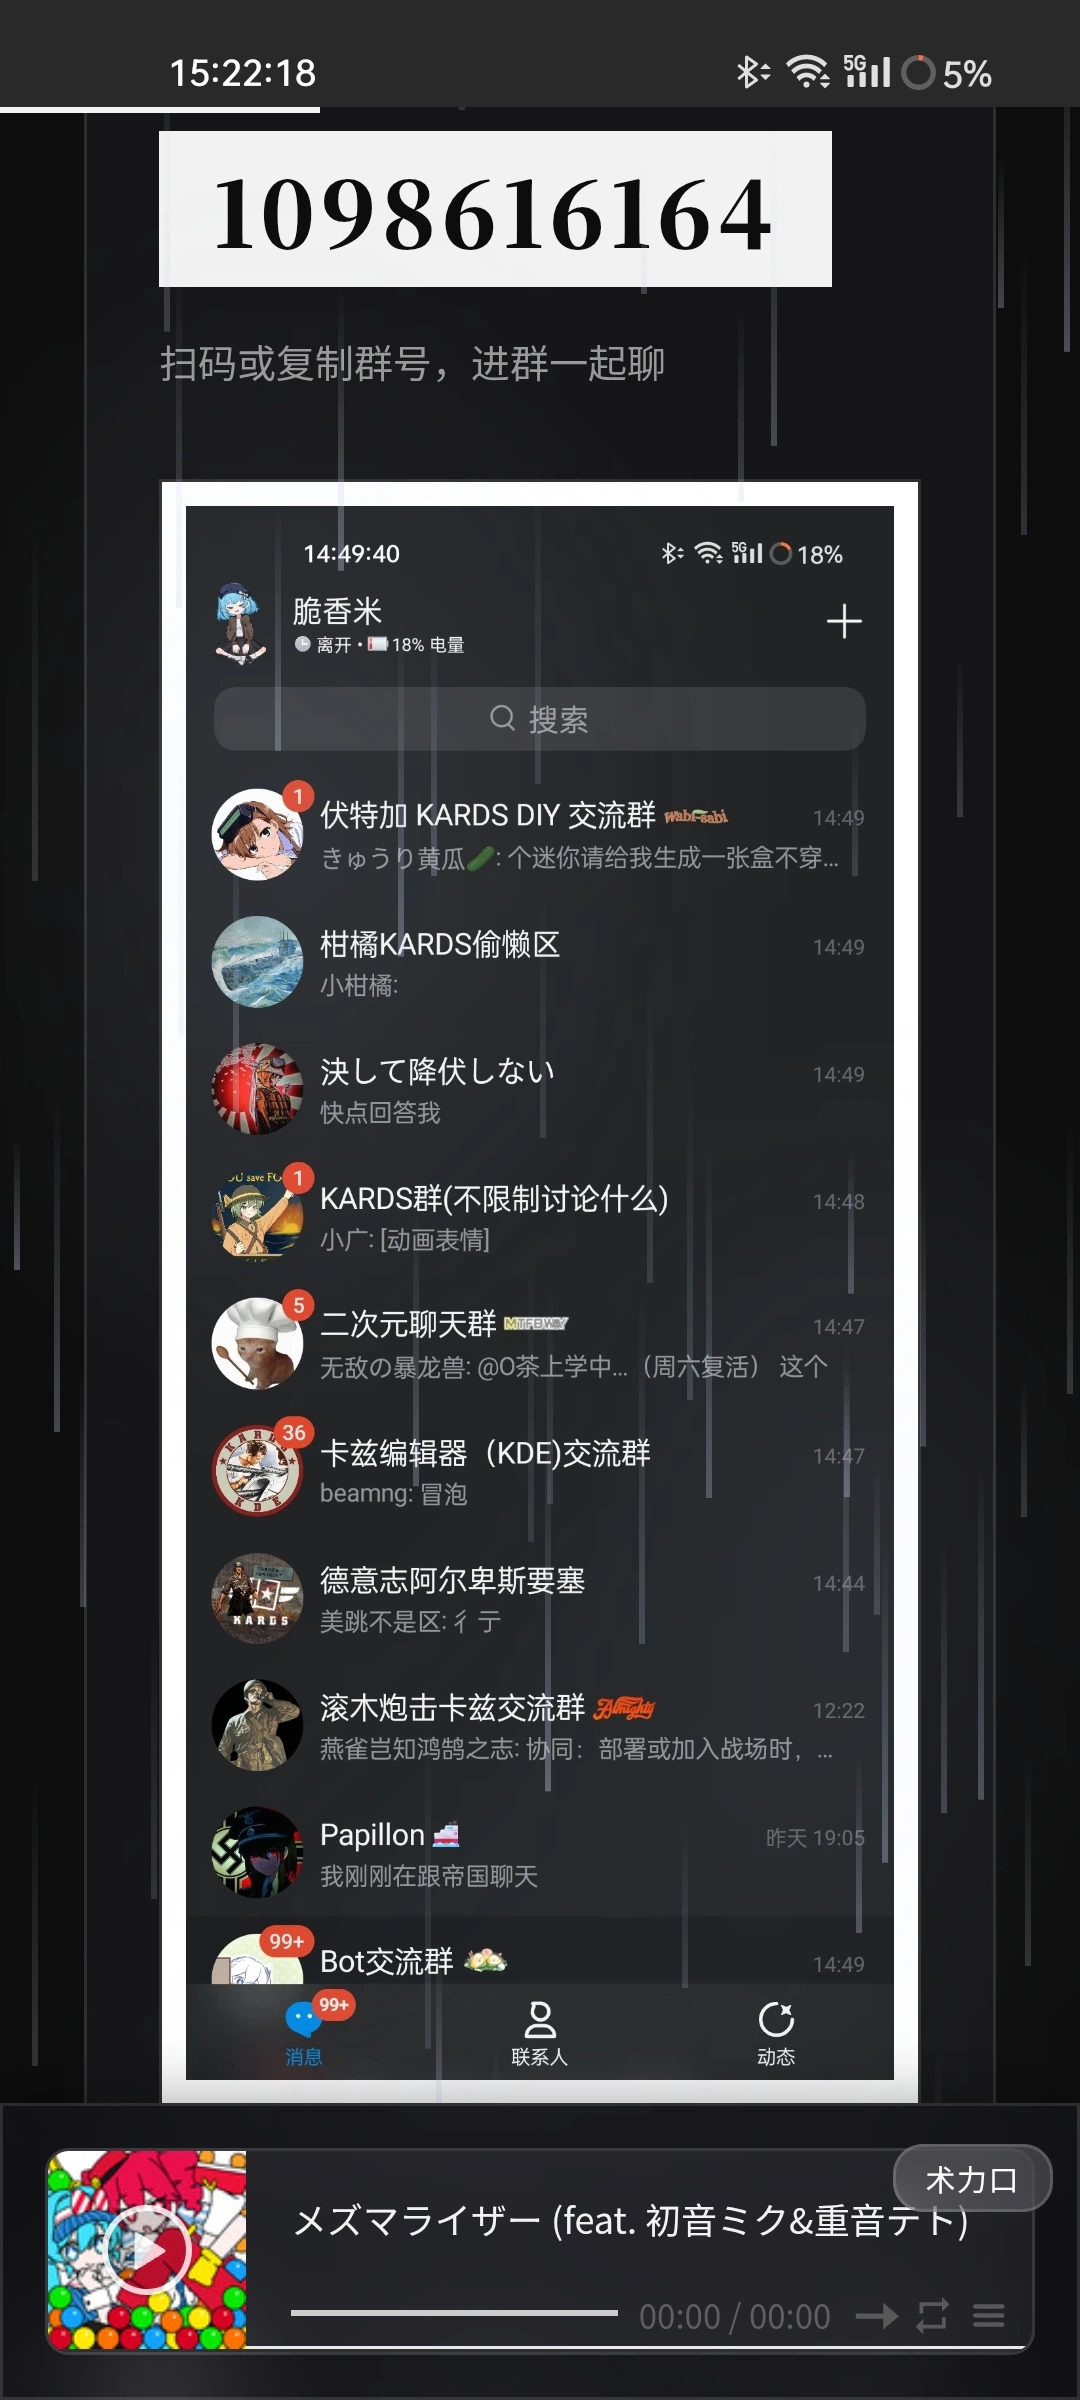
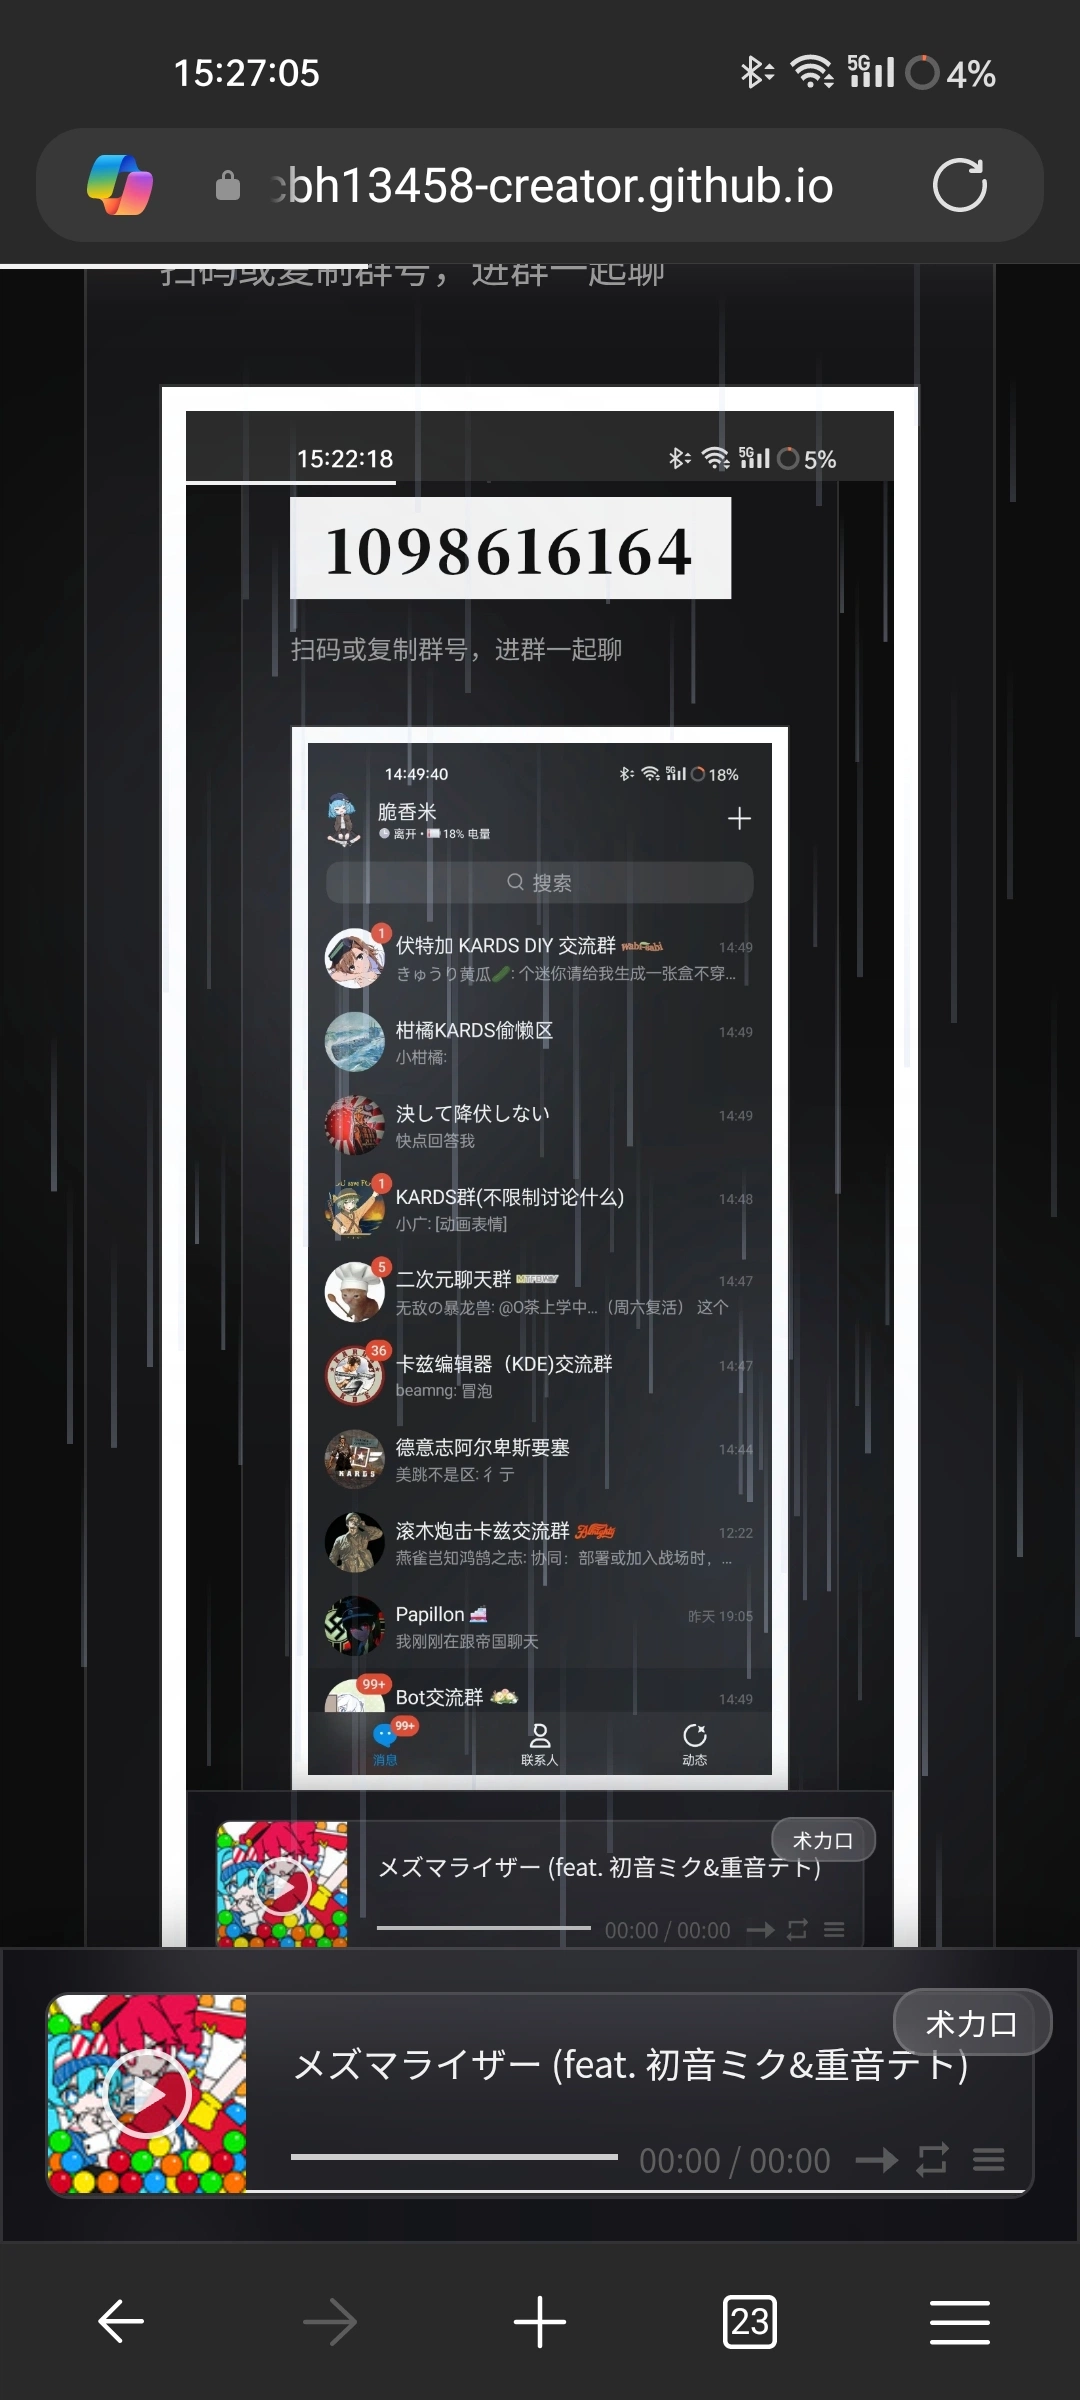
fix: 换成真正的QQ群二维码，版本号v=3

diff --git a/index.html b/index.html
@@ -941,7 +941,7 @@
       group: {
         name: "脆香米の阿尔卑斯要塞",
         number: "1098616164",
-        qrcode: "qrcode.jpg?v=2"
+        qrcode: "qrcode.jpg?v=3"
       },
       content: [
         "建了一个 QQ 群，名字叫「脆香米の阿尔卑斯要塞」。想找个地方，把散落各处、聊得来的人聚在一起。",
